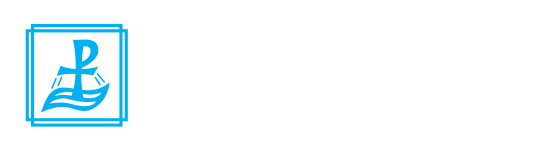
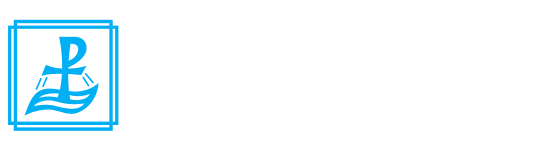
updated skin

Changed region(s): [[0.0, 0.1067, 0.237, 0.88]]

diff --git a/lib/css/skin.css b/lib/css/skin.css
@@ -6,28 +6,33 @@
 
 /* background colour for splash/home/menu pages */
 .pageBg { background-color:#1e9abb; }
+#pgMenu .pageBg { background-position:0 0; }
 
 /* page header bar bg colour */
-.pageHeader { background:#ffc423; }
+.pageHeader { background:#1d457c; }
 
 /* tab button active theme colour */
 .pageNav .navTabs .btnTab.current,
-.pageNav .navTabs .btnTab.current.active { background-color:#007dc3; }
+.pageNav .navTabs .btnTab.current.active { background-color:#fdca10; }
 
 /* title/logo/crest for menu page */
 .brandTitle { width:270px; height:75px; }
 
 /* collage/artwork for home page */
 .brandImage { padding-top:54.68%; }
-   
+
+/* menu title bar background colour for home/menu page */
+.menu .title,
+.menuList .title { background-color:#fdca10; }
+
 /* list button active state for menu page */
-.menuList .menuItem.active { background:#ffc423; border-color:#ffc423; }
+.menuList .menuItem.active { background:#fdca10; border-color:#fdca10; }
 
 /* text link colour */
-.contentView a { color:#007bc0!important; }
+.contentView a { color:#1d457c!important; }
 
 /* btnCap base colour */
-.btnCap { background-color:#007dc3; }
+.btnCap { background-color:#fdca10; }
 
 /* news/events/notifs icon bubble colour */
-.bubble { background:#3f95b2; }
+.bubble { background:#00aff0; }
